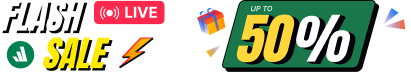
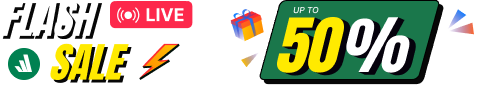
2.2.3

diff --git a/revenue/includes/notice/class-notice.php b/revenue/includes/notice/class-notice.php
@@ -87,6 +87,10 @@ class Notice {
 			'revx_helloBar_spring_sale_2026_1'     => Xpo::get_transient_without_cache( 'revx_helloBar_spring_sale_2026_1' ),
 			'revx_helloBar_spring_sale_2026_2'     => Xpo::get_transient_without_cache( 'revx_helloBar_spring_sale_2026_2' ),
 			'revx_helloBar_spring_sale_2026_3'     => Xpo::get_transient_without_cache( 'revx_helloBar_spring_sale_2026_3' ),
+			'revx_helloBar_flash_sale_2026_2'      => Xpo::get_transient_without_cache( 'revx_helloBar_flash_sale_2026_2' ),
+			'revx_helloBar_surprise_sale_2026_1'   => Xpo::get_transient_without_cache( 'revx_helloBar_surprise_sale_2026_1' ),
+			'revx_helloBar_massive_sale_2026_1'    => Xpo::get_transient_without_cache( 'revx_helloBar_massive_sale_2026_1' ),
+			'revx_helloBar_final_hour_sale_2026_1' => Xpo::get_transient_without_cache( 'revx_helloBar_final_hour_sale_2026_1' ),
 		);
 	}
 
@@ -197,6 +201,90 @@ class Notice {
 				'url'                => Xpo::generate_utm_link(
 					array(
 						'utmKey' => 'spring_sale',
+					)
+				),
+
+				'visibility'         => ! Xpo::is_lc_active(),
+			),
+			array(
+				'key'                => 'revx_flash_sale_2026_2',
+				'start'              => '2026-05-13 00:00 Asia/Dhaka',
+				'end'                => '2026-05-17 23:59 Asia/Dhaka', // format YY-MM-DD always set time 23:59 and zone Asia/Dhaka.
+
+				'brand_color'        => '#00a464',
+
+				'left_image'         => REVENUE_URL . '/assets/images/dashboard_banner/flash_sale/left_image.png',
+				'right_image'        => REVENUE_URL . '/assets/images/dashboard_banner/flash_sale/right_image.png',
+				'bg_image'           => REVENUE_URL . '/assets/images/dashboard_banner/flash_sale/bg.png',
+				'text'               => 'Hurry Before It Ends!',
+				'countdown_duration' => 259200, // Duration in seconds.
+				'countdown_color'    => '#fff',
+				'url'                => Xpo::generate_utm_link(
+					array(
+						'utmKey' => 'flash_sale',
+					)
+				),
+
+				'visibility'         => ! Xpo::is_lc_active(),
+			),
+			array(
+				'key'                => 'revx_surprise_sale_2026_1',
+				'start'              => '2026-05-26 00:00 Asia/Dhaka',
+				'end'                => '2026-05-28 23:59 Asia/Dhaka', // format YY-MM-DD always set time 23:59 and zone Asia/Dhaka.
+
+				'brand_color'        => '#00a464',
+
+				'left_image'         => REVENUE_URL . '/assets/images/dashboard_banner/surprise_sale/left_image.png',
+				'right_image'        => REVENUE_URL . '/assets/images/dashboard_banner/surprise_sale/right_image.png',
+				'bg_image'           => REVENUE_URL . '/assets/images/dashboard_banner/surprise_sale/bg.png',
+				'text'               => 'Hurry Before It Ends!',
+				'countdown_duration' => 259200, // Duration in seconds.
+				'countdown_color'    => '#fff',
+				'url'                => Xpo::generate_utm_link(
+					array(
+						'utmKey' => 'surprise_sale',
+					)
+				),
+
+				'visibility'         => ! Xpo::is_lc_active(),
+			),
+			array(
+				'key'                => 'revx_massive_sale_2026_1',
+				'start'              => '2026-06-11 00:00 Asia/Dhaka',
+				'end'                => '2026-06-16 23:59 Asia/Dhaka', // format YY-MM-DD always set time 23:59 and zone Asia/Dhaka.
+
+				'brand_color'        => '#00a464',
+
+				'left_image'         => REVENUE_URL . '/assets/images/dashboard_banner/massive_sale/left_image.png',
+				'right_image'        => REVENUE_URL . '/assets/images/dashboard_banner/massive_sale/right_image.png',
+				'bg_image'           => REVENUE_URL . '/assets/images/dashboard_banner/massive_sale/bg.png',
+				'text'               => 'Hurry Before It Ends!',
+				'countdown_duration' => 259200, // Duration in seconds.
+				'countdown_color'    => '#fff',
+				'url'                => Xpo::generate_utm_link(
+					array(
+						'utmKey' => 'massive_sale',
+					)
+				),
+
+				'visibility'         => ! Xpo::is_lc_active(),
+			),
+			array(
+				'key'                => 'revx_final_hour_sale_2026_1',
+				'start'              => '2026-06-25 00:00 Asia/Dhaka',
+				'end'                => '2026-06-27 23:59 Asia/Dhaka', // format YY-MM-DD always set time 23:59 and zone Asia/Dhaka.
+
+				'brand_color'        => '#00a464',
+
+				'left_image'         => REVENUE_URL . '/assets/images/dashboard_banner/final_hour_sale/left_image.png',
+				'right_image'        => REVENUE_URL . '/assets/images/dashboard_banner/final_hour_sale/right_image.png',
+				'bg_image'           => REVENUE_URL . '/assets/images/dashboard_banner/final_hour_sale/bg.png',
+				'text'               => 'Hurry Before It Ends!',
+				'countdown_duration' => 259200, // Duration in seconds.
+				'countdown_color'    => '#fff',
+				'url'                => Xpo::generate_utm_link(
+					array(
+						'utmKey' => 'final_hour_sale',
 					)
 				),
 
@@ -498,6 +586,150 @@ class Notice {
 				'discount_content'   => ' up to 55% OFF',
 				'border_color'       => '#00a464',
 				'icon'               => REVENUE_URL . 'assets/images/dashboard_banner/discount.svg',
+				'button_text'        => __( 'Upgrade Now', 'revenue' ),
+				'is_discount_logo'   => true,
+			),
+			array(
+				'key'                => 'revx_dashboard_content_notice_flash_sale_v1',
+				'start'              => '2026-05-07 00:00 Asia/Dhaka',
+				'end'                => '2026-05-12 23:59 Asia/Dhaka',
+				'url'                => Xpo::generate_utm_link(
+					array(
+						'utmKey' => 'flash_sale',
+					)
+				),
+				'visibility'         => ! Xpo::is_lc_active(),
+				'content_heading'    => __( 'Flash Sale:', 'revenue' ),
+				'content_subheading' => __( 'Enjoy up to %s off on WowRevenue Pro.', 'revenue' ),
+				'discount_content'   => ' up to 50% OFF',
+				'border_color'       => '#00a464',
+				'icon'               => REVENUE_URL . 'assets/images/dashboard_banner/flash_sale/discount.svg',
+				'button_text'        => __( 'Upgrade Now', 'revenue' ),
+				'is_discount_logo'   => true,
+			),
+			array(
+				'key'                => 'revx_dashboard_content_notice_flash_sale_v2',
+				'start'              => '2026-05-18 00:00 Asia/Dhaka',
+				'end'                => '2026-05-21 23:59 Asia/Dhaka',
+				'url'                => Xpo::generate_utm_link(
+					array(
+						'utmKey' => 'flash_sale',
+					)
+				),
+				'visibility'         => ! Xpo::is_lc_active(),
+				'content_heading'    => __( 'Flash Sale:', 'revenue' ),
+				'content_subheading' => __( 'Enjoy up to %s off on WowRevenue Pro.', 'revenue' ),
+				'discount_content'   => ' up to 50% OFF',
+				'border_color'       => '#00a464',
+				'icon'               => REVENUE_URL . 'assets/images/dashboard_banner/flash_sale/icon.svg',
+				'button_text'        => __( 'Upgrade Now', 'revenue' ),
+				'is_discount_logo'   => true,
+			),
+			array(
+				'key'                => 'revx_dashboard_content_notice_surprise_sale_v1',
+				'start'              => '2026-05-22 00:00 Asia/Dhaka',
+				'end'                => '2026-05-25 23:59 Asia/Dhaka',
+				'url'                => Xpo::generate_utm_link(
+					array(
+						'utmKey' => 'surprise_sale',
+					)
+				),
+				'visibility'         => ! Xpo::is_lc_active(),
+				'content_heading'    => __( 'Surprise Sale:', 'revenue' ),
+				'content_subheading' => __( 'Enjoy up to %s off on WowRevenue Pro.', 'revenue' ),
+				'discount_content'   => ' up to 55% OFF',
+				'border_color'       => '#00a464',
+				'icon'               => REVENUE_URL . 'assets/images/dashboard_banner/surprise_sale/discount.svg',
+				'button_text'        => __( 'Upgrade Now', 'revenue' ),
+				'is_discount_logo'   => true,
+			),
+			array(
+				'key'                => 'revx_dashboard_content_notice_surprise_sale_v2',
+				'start'              => '2026-05-29 00:00 Asia/Dhaka',
+				'end'                => '2026-06-01 23:59 Asia/Dhaka',
+				'url'                => Xpo::generate_utm_link(
+					array(
+						'utmKey' => 'surprise_sale',
+					)
+				),
+				'visibility'         => ! Xpo::is_lc_active(),
+				'content_heading'    => __( 'Surprise Sale:', 'revenue' ),
+				'content_subheading' => __( 'Enjoy up to %s off on WowRevenue Pro.', 'revenue' ),
+				'discount_content'   => ' up to 55% OFF',
+				'border_color'       => '#00a464',
+				'icon'               => REVENUE_URL . 'assets/images/dashboard_banner/surprise_sale/icon.svg',
+				'button_text'        => __( 'Upgrade Now', 'revenue' ),
+				'is_discount_logo'   => true,
+			),
+			array(
+				'key'                => 'revx_dashboard_content_notice_massive_sale_v1',
+				'start'              => '2026-06-02 00:00 Asia/Dhaka',
+				'end'                => '2026-06-10 23:59 Asia/Dhaka',
+				'url'                => Xpo::generate_utm_link(
+					array(
+						'utmKey' => 'massive_sale',
+					)
+				),
+				'visibility'         => ! Xpo::is_lc_active(),
+				'content_heading'    => __( 'Massive Sale:', 'revenue' ),
+				'content_subheading' => __( 'Enjoy up to %s off on WowRevenue Pro.', 'revenue' ),
+				'discount_content'   => ' up to 50% OFF',
+				'border_color'       => '#00a464',
+				'icon'               => REVENUE_URL . 'assets/images/dashboard_banner/massive_sale/discount.svg',
+				'button_text'        => __( 'Upgrade Now', 'revenue' ),
+				'is_discount_logo'   => true,
+			),
+			array(
+				'key'                => 'revx_dashboard_content_notice_massive_sale_v2',
+				'start'              => '2026-06-17 00:00 Asia/Dhaka',
+				'end'                => '2026-06-20 23:59 Asia/Dhaka',
+				'url'                => Xpo::generate_utm_link(
+					array(
+						'utmKey' => 'massive_sale',
+					)
+				),
+				'visibility'         => ! Xpo::is_lc_active(),
+				'content_heading'    => __( 'Massive Sale:', 'revenue' ),
+				'content_subheading' => __( 'Enjoy up to %s off on WowRevenue Pro.', 'revenue' ),
+				'discount_content'   => ' up to 50% OFF',
+				'border_color'       => '#00a464',
+				'icon'               => REVENUE_URL . 'assets/images/dashboard_banner/massive_sale/icon.svg',
+				'button_text'        => __( 'Upgrade Now', 'revenue' ),
+				'is_discount_logo'   => true,
+			),
+			array(
+				'key'                => 'revx_dashboard_content_notice_final_hour_sale_v1',
+				'start'              => '2026-06-21 00:00 Asia/Dhaka',
+				'end'                => '2026-06-25 23:59 Asia/Dhaka',
+				'url'                => Xpo::generate_utm_link(
+					array(
+						'utmKey' => 'final_hour_sale',
+					)
+				),
+				'visibility'         => ! Xpo::is_lc_active(),
+				'content_heading'    => __( 'Final Hour Sale:', 'revenue' ),
+				'content_subheading' => __( 'Enjoy up to %s off on WowRevenue Pro.', 'revenue' ),
+				'discount_content'   => ' up to 55% OFF',
+				'border_color'       => '#00a464',
+				'icon'               => REVENUE_URL . 'assets/images/dashboard_banner/final_hour_sale/discount.svg',
+				'button_text'        => __( 'Upgrade Now', 'revenue' ),
+				'is_discount_logo'   => true,
+			),
+			array(
+				'key'                => 'revx_dashboard_content_notice_final_hour_sale_v2',
+				'start'              => '2026-06-28 00:00 Asia/Dhaka',
+				'end'                => '2026-06-30 23:59 Asia/Dhaka',
+				'url'                => Xpo::generate_utm_link(
+					array(
+						'utmKey' => 'final_hour_sale',
+					)
+				),
+				'visibility'         => ! Xpo::is_lc_active(),
+				'content_heading'    => __( 'Final Hour Sale:', 'revenue' ),
+				'content_subheading' => __( 'Enjoy up to %s off on WowRevenue Pro.', 'revenue' ),
+				'discount_content'   => ' up to 55% OFF',
+				'border_color'       => '#00a464',
+				'icon'               => REVENUE_URL . 'assets/images/dashboard_banner/final_hour_sale/icon.svg',
 				'button_text'        => __( 'Upgrade Now', 'revenue' ),
 				'is_discount_logo'   => true,
 			),

diff --git a/revenue/includes/durbin/class-xpo.php b/revenue/includes/durbin/class-xpo.php
@@ -205,25 +205,64 @@ class Xpo {
 
 	public static function generate_utm_link( $params = array() ) {
 		$default_config = array(
+			// notice part.
 			'flash_sale'       => array(
-				'source'   => 'db-revenue-featurearea',
-				'medium'   => 'flash_sale',
+				'source'   => 'db-revenue-notice',
+				'medium'   => 'flash-sale',
 				'campaign' => 'revenue-dashboard',
 			),
+			'surprise_sale'       => array(
+				'source'   => 'db-revenue-notice',
+				'medium'   => 'surprise-sale',
+				'campaign' => 'revenue-dashboard',
+			),
+			'massive_sale'       => array(
+				'source'   => 'db-revenue-notice',
+				'medium'   => 'massive-sale',
+				'campaign' => 'revenue-dashboard',
+			),
+			'final_hour_sale'       => array(
+				'source'   => 'db-revenue-notice',
+				'medium'   => 'final-hour-sale',
+				'campaign' => 'revenue-dashboard',
+			),
+			// meta part.
+			// snotice part.
+			'flash_sale_meta'       => array(
+				'source'   => 'db-revenue-plugin-meta',
+				'medium'   => 'flash-sale',
+				'campaign' => 'revenue-dashboard',
+			),
+			'surprise_sale_meta'       => array(
+				'source'   => 'db-revenue-plugin-meta',
+				'medium'   => 'surprise-sale',
+				'campaign' => 'revenue-dashboard',
+			),
+			'massive_sale_meta'       => array(
+				'source'   => 'db-revenue-plugin-meta',
+				'medium'   => 'massive-sale',
+				'campaign' => 'revenue-dashboard',
+			),
+			'final_hour_sale_meta'       => array(
+				'source'   => 'db-revenue-plugin-meta',
+				'medium'   => 'final-hour-sale',
+				'campaign' => 'revenue-dashboard',
+			),
+			// ......................
 			'final_hour'       => array(
-				'source'   => 'db-revenue-notice-text',
-				'medium'   => 'final_hour',
+				'source'   => 'db-revenue-notice',
+				'medium'   => 'final-hour',
 				'campaign' => 'revenue-dashboard',
 			),
 			// spring sale 2026.
 			'spring_sale_meta' => array(
 				'source'   => 'db-revenue-plugin-meta',
-				'medium'   => 'spring_sale',
+				'medium'   => 'spring-sale',
 				'campaign' => 'revenue-dashboard',
 			),
 			'spring_sale'      => array(
 				'source'   => 'db-revenue-notice',
-				'medium'   => 'spring_sale',
+				'medium'   => 'spring-sale',
 				'campaign' => 'revenue-dashboard',
 			),
 			'content_notice'   => array(

diff --git a/revenue/includes/class-revenue.php b/revenue/includes/class-revenue.php
@@ -500,6 +500,42 @@ final class Revenue {
 				),
 				'utmKey' => 'spring_sale_meta',
 			),
+			array(
+				'start'  => '2026-05-07 00:00 Asia/Dhaka',
+				'end'    => '2026-05-21 23:59 Asia/Dhaka',
+				'text'   => __(
+					'Flash Sale - Up to 50% OFF',
+					'revenue'
+				),
+				'utmKey' => 'flash_sale_meta',
+			),
+			array(
+				'start'  => '2026-05-22 00:00 Asia/Dhaka',
+				'end'    => '2026-06-01 23:59 Asia/Dhaka',
+				'text'   => __(
+					'Surprise Sale - Up to 55% OFF',
+					'revenue'
+				),
+				'utmKey' => 'surprise_sale_meta',
+			),
+			array(
+				'start'  => '2026-06-02 00:00 Asia/Dhaka',
+				'end'    => '2026-06-20 23:59 Asia/Dhaka',
+				'text'   => __(
+					'Massive Sale - Up to 50% OFF',
+					'revenue'
+				),
+				'utmKey' => 'massive_sale_meta',
+			),
+			array(
+				'start'  => '2026-06-21 00:00 Asia/Dhaka',
+				'end'    => '2026-06-30 23:59 Asia/Dhaka',
+				'text'   => __(
+					'Final Hour Sale - Up to 55% OFF',
+					'revenue'
+				),
+				'utmKey' => 'final_hour_sale_meta',
+			),
 		);
 
 		// Create the base URL for campaigns admin page.

diff --git a/revenue/revenue.php b/revenue/revenue.php
@@ -3,7 +3,7 @@
  * Plugin Name: WowRevenue
  * Plugin URI: https://www.wowrevenue.com/
  * Description: WowRevenue is a product bundles plugin with various discount campaigns, allowing you to create enticing offers and encourage shoppers to make more purchases. As a result, your average order value and overall revenue will be increased.
- * Version: 2.2.2
+ * Version: 2.2.3
  * Author: WowRevenue
  * Author URI: https://wowrevenue.com/
  * License: GPLv3
@@ -30,7 +30,7 @@ if ( ! defined( 'REVENUE_URL' ) ) {
 }
 
 if ( ! defined( 'REVENUE_VER' ) ) {
-	define( 'REVENUE_VER', '2.2.2' );
+	define( 'REVENUE_VER', '2.2.3' );
 }
 
 // // Auto-generate translation files from .po files